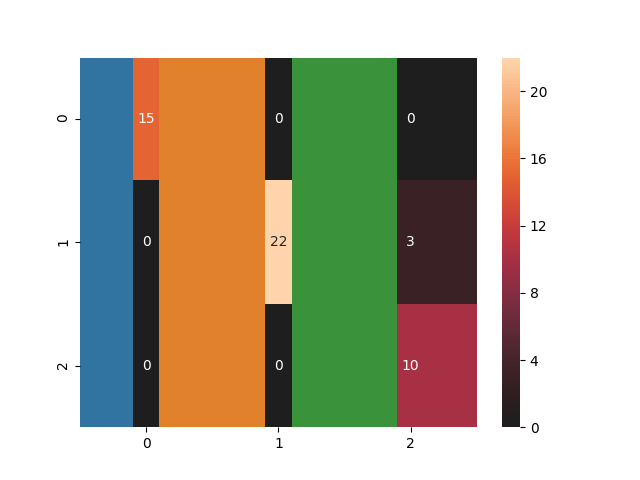
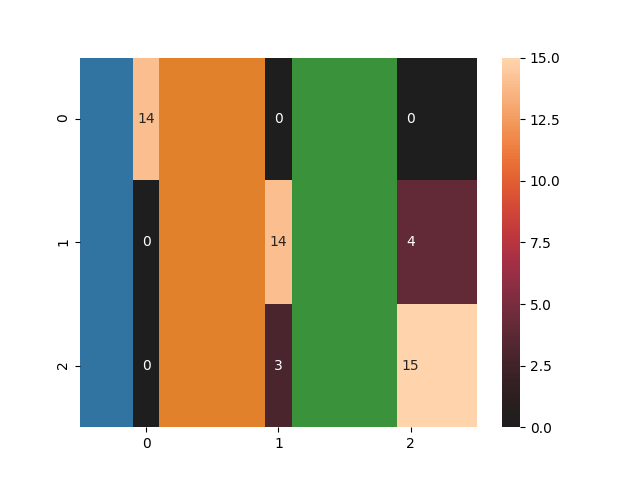
normalized confuzion matrix

diff --git a/11-EvaluateAModel/main.py b/11-EvaluateAModel/main.py
@@ -3,6 +3,7 @@ from sklearn.datasets import load_iris
 from sklearn.metrics import accuracy_score, confusion_matrix, recall_score
 from sklearn.model_selection import train_test_split
 from sklearn.tree import DecisionTreeClassifier
+import numpy as np
 
 iris = load_iris()
 x = iris.data
@@ -19,6 +20,10 @@ decision_tree_predictions = decision_tree.predict(x_test)
 cnf_matrix = confusion_matrix(y_test, decision_tree_predictions)
 sns_plot = seaborn.heatmap(cnf_matrix, annot=True, fmt="d", center=0)
 sns_plot.figure.savefig("cnf_matrix.png")
+
+normalized_cnf_matrix = cnf_matrix.astype('float') / cnf_matrix.sum(axis=1)[:, np.newaxis]
+sns_plot = seaborn.heatmap(normalized_cnf_matrix, annot=True, center=0)
+sns_plot.figure.savefig("normalized_cnf_matrix.png")
 
 print("decision tree perecision: ", accuracy_score(y_test, decision_tree_predictions))
 print("decision tree recal macro: ", recall_score(y_test, decision_tree_predictions, average='macro'))
